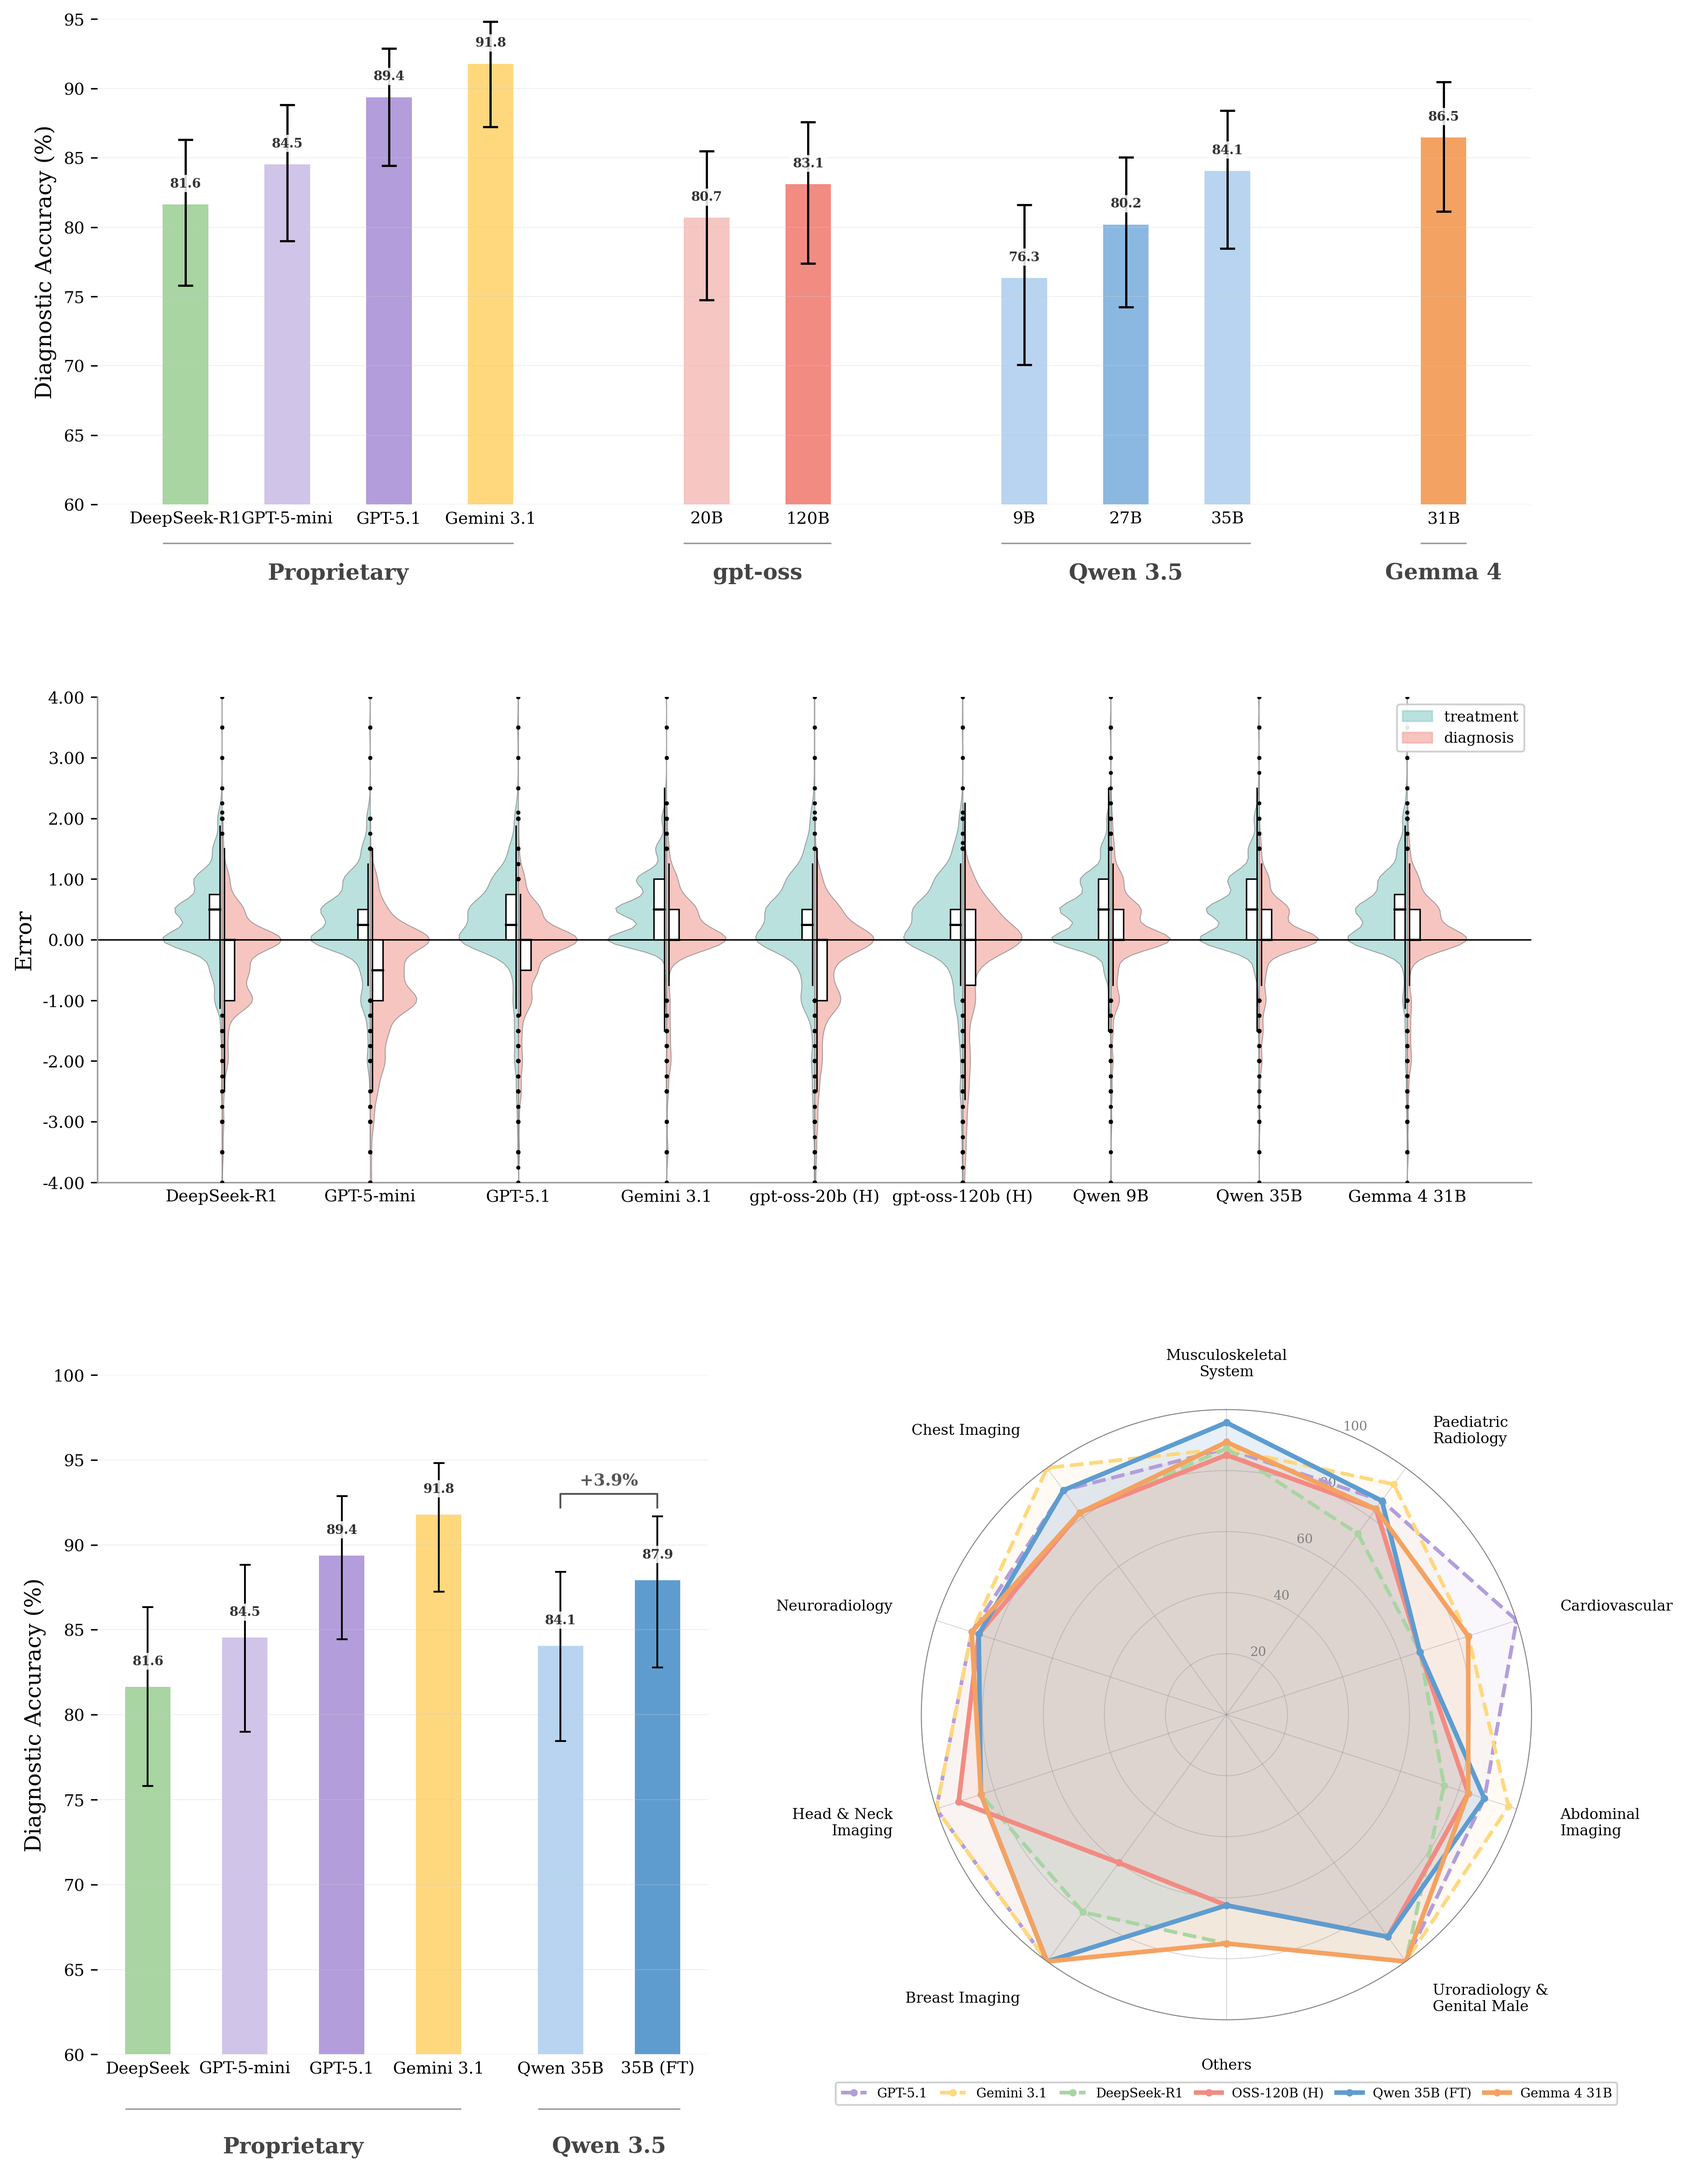
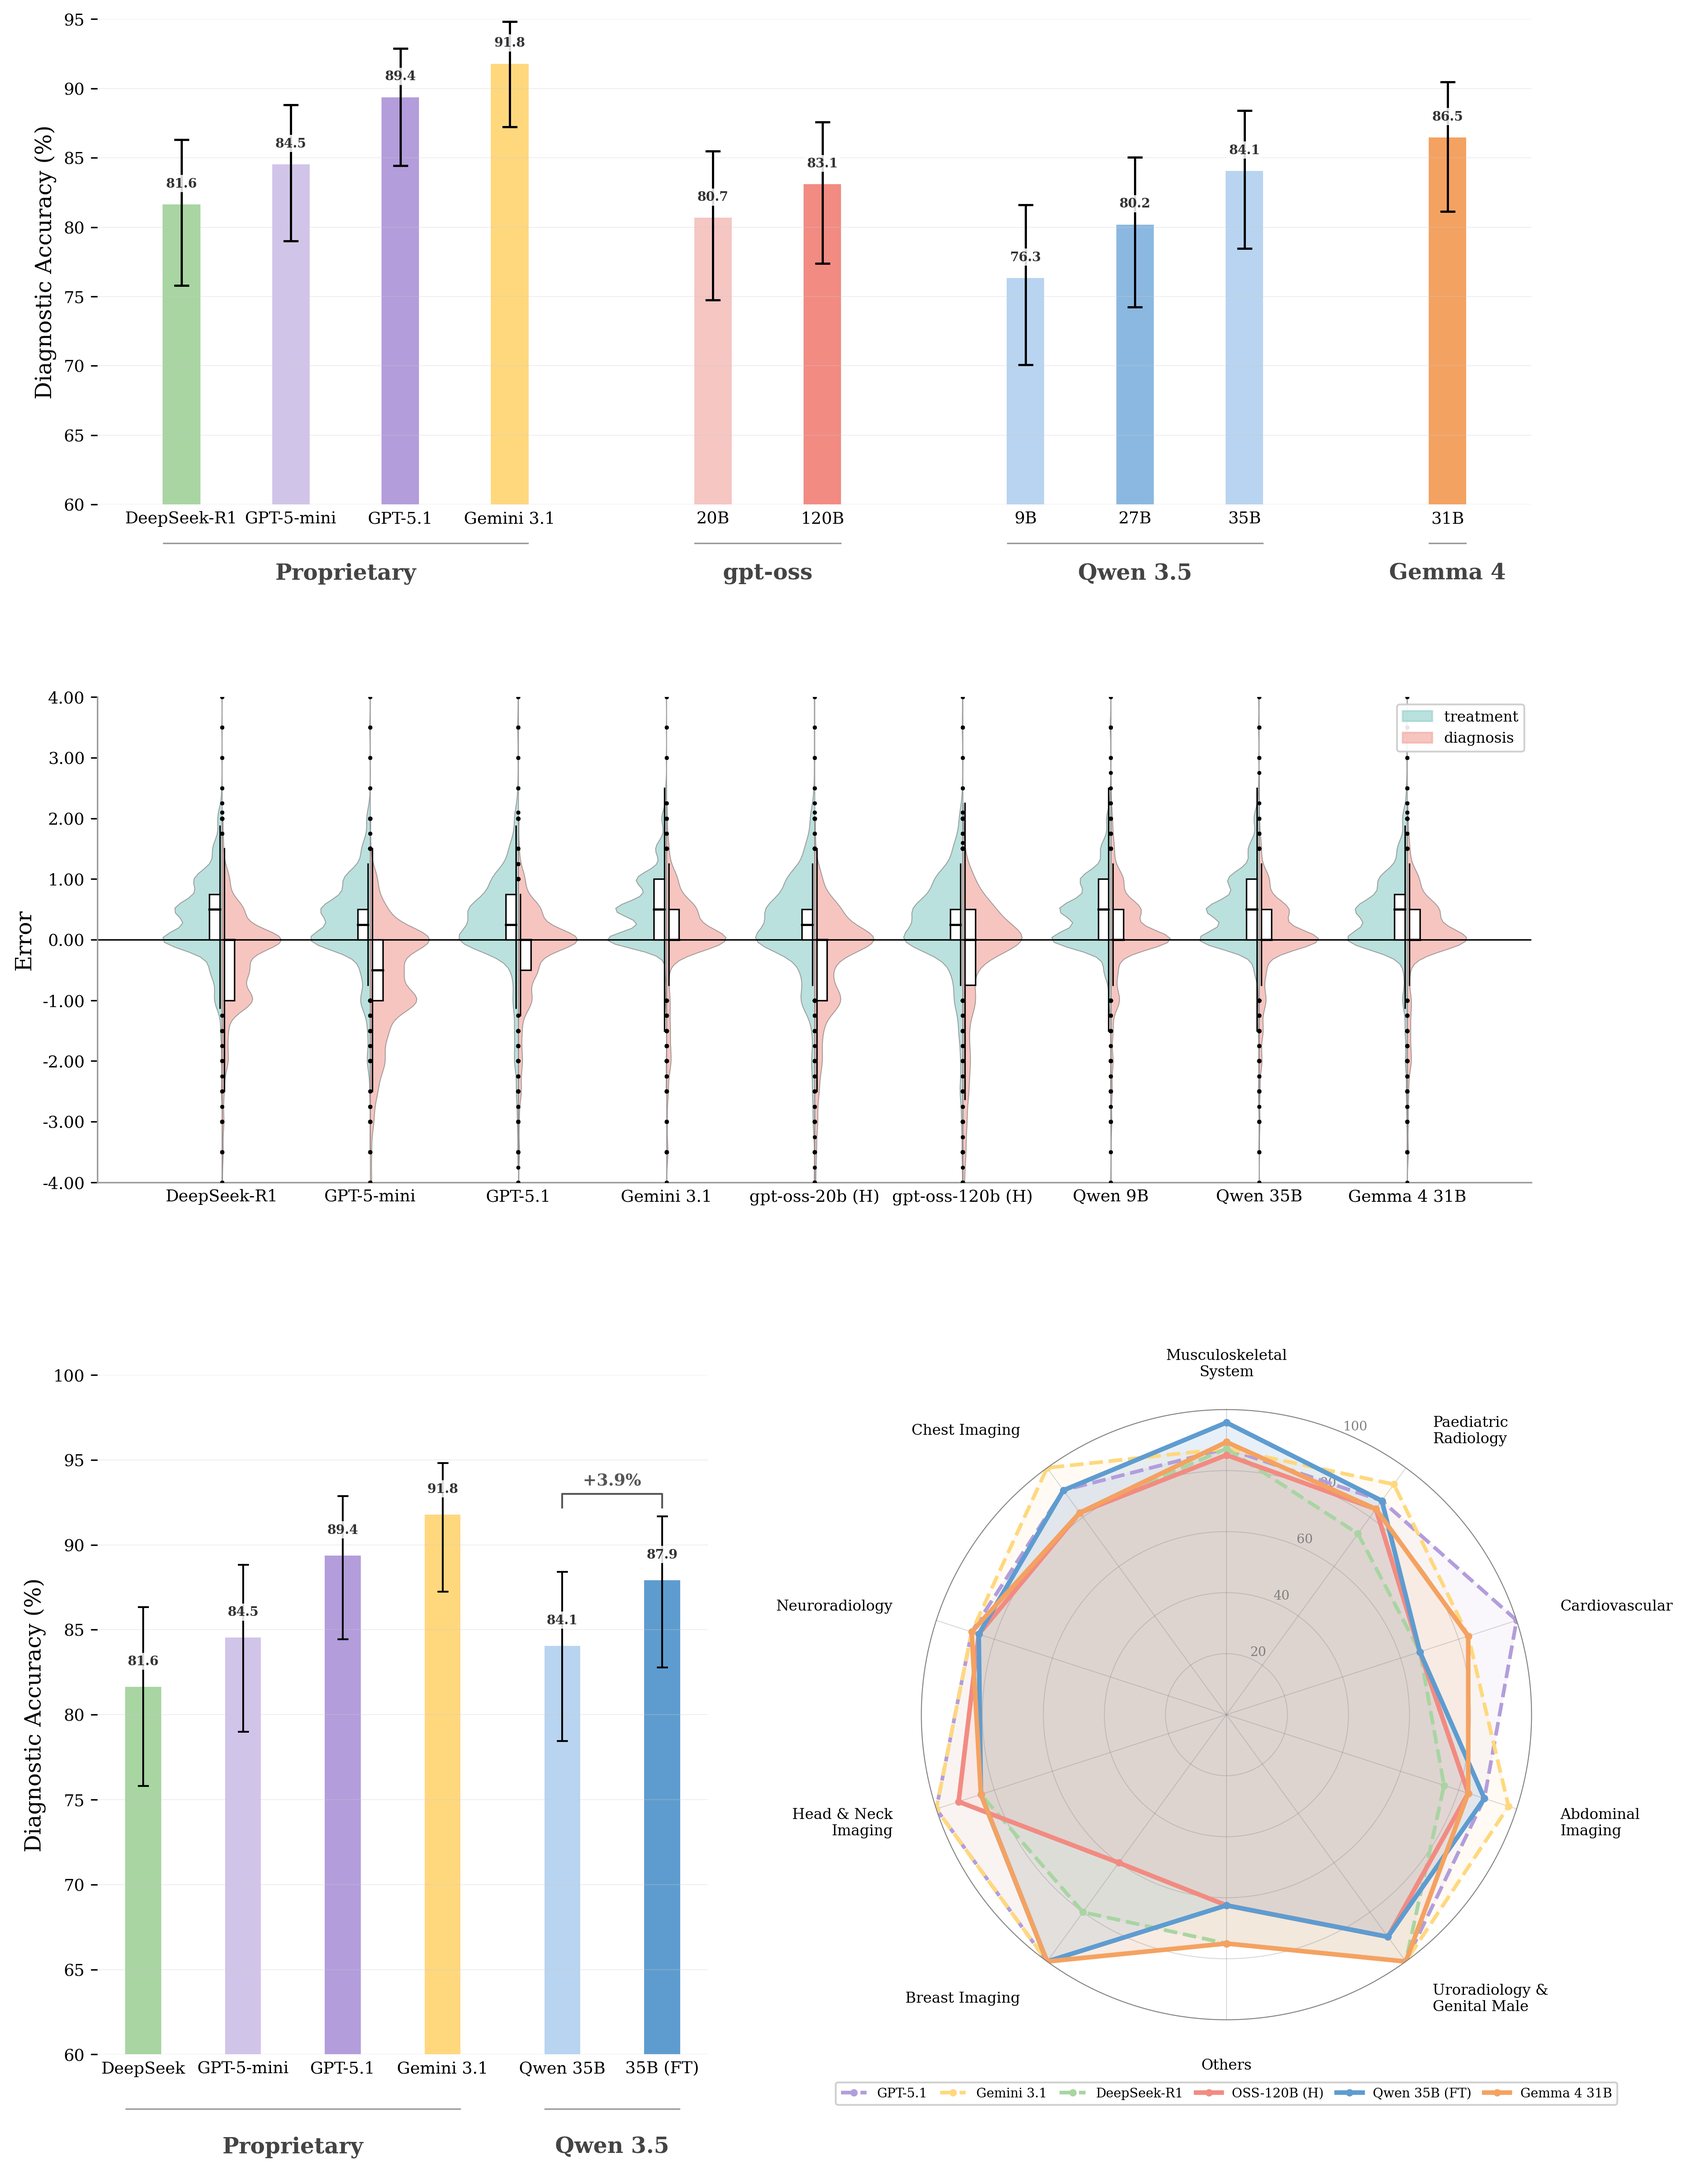
Widen within-group bar spacing in Fig 2 panels a and c
Increases step to 2.1 (panel a) and 2.0 (panel c) so DeepSeek-R1
tick label no longer overlaps neighboring model names.

diff --git a/figures/combined_figure.py b/figures/combined_figure.py
@@ -57,7 +57,7 @@ def panel_accuracy(ax):
     results = compute_accuracy(headers, data)
 
     positions, colors, labels = [], [], []
-    step = 1.6
+    step = 2.1
     gap = 1.8
     x = 0
     group_spans = {}
@@ -228,7 +228,7 @@ def panel_finetune(ax):
 
     positions = []
     x = 0
-    step = 1.55
+    step = 2.0
     gaps_after = {3}
     for idx in range(len(bars)):
         positions.append(x)
